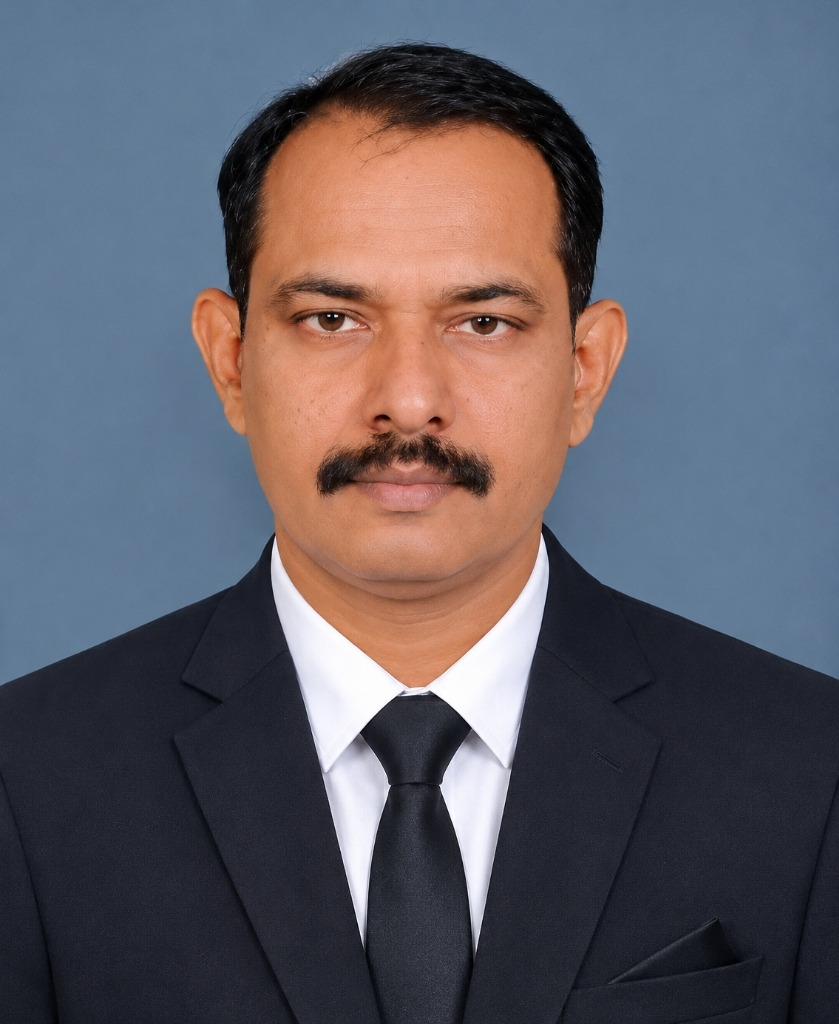
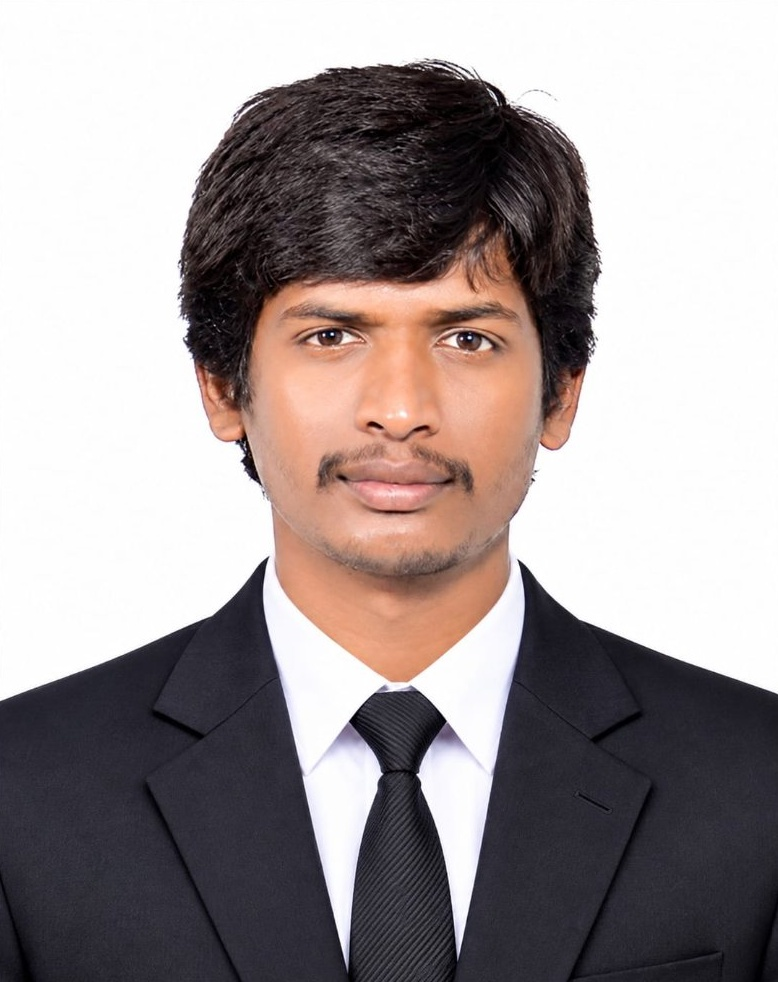
Now Editor photo uploaded and About the editor also updated

diff --git a/src/app/(public)/about/page.tsx b/src/app/(public)/about/page.tsx
@@ -125,58 +125,92 @@ export default function AboutPage() {
         </div>
       </section>
 
-      {/* Editorial Mission Statement Box */}
+      {/* Editorial Mission Statement & About Editor Box */}
       <section className="bg-white border border-[#E2E8F0] rounded-2xl p-6 sm:p-10 shadow-xs">
-        <div className="grid grid-cols-1 md:grid-cols-12 gap-8 items-center">
-          <div className="md:col-span-3 flex justify-center">
-            <div className="w-full max-w-[200px]">
-              <div className="relative aspect-[4/5] rounded-xl overflow-hidden border border-stone-200 shadow-sm">
+        <div className="grid grid-cols-1 md:grid-cols-12 gap-8 items-start">
+          {/* Editor Photo */}
+          <div className="md:col-span-4 flex justify-center">
+            <div className="w-full max-w-[260px] sticky top-24">
+              <div className="relative aspect-[4/5] rounded-2xl overflow-hidden border-2 border-[#172B4D]/15 shadow-md bg-stone-100">
                 <Image
                   src="/editor.jpg"
-                  alt="ಎಂ. ಎಸ್. ಮಧುಕುಮಾರ್ - ಪ್ರಧಾನ ಸಂಪಾದಕರು, ನ್ಯಾಯ ಘರ್ಜನೆ"
-                  width={839}
-                  height={1024}
-                  className="w-full h-full object-cover object-top"
+                  alt="ಹರೀಶ್ ಕಮ್ಮನಕೋಟೆ - ಪ್ರಧಾನ ಸಂಪಾದಕರು, ನ್ಯಾಯ ಘರ್ಜನೆ"
+                  width={778}
+                  height={982}
+                  priority
+                  className="w-full h-full object-cover object-top hover:scale-[1.02] transition-transform duration-300"
                 />
+                <div className="absolute bottom-0 inset-x-0 bg-gradient-to-t from-[#172B4D] via-[#172B4D]/85 to-transparent p-3 pt-6 text-white text-center">
+                  <p className="text-xs sm:text-sm font-bold leading-tight tracking-wide">ಹರೀಶ್ ಕಮ್ಮನಕೋಟೆ</p>
+                  <p className="text-[10px] text-[#FF8A80] font-medium">ಪ್ರಧಾನ ಸಂಪಾದಕರು • ನ್ಯಾಯ ಘರ್ಜನೆ</p>
+                </div>
               </div>
-            </div>
-          </div>
-          <div className="md:col-span-5 space-y-4">
-            <h2 className="text-2xl font-black text-[#172B4D]">
-              ಸಂಪಾದಕರ ಸಂದೇಶ & ಧ್ಯೇಯೋದ್ದೇಶ
-            </h2>
-            <p className="text-sm text-[#5A6A85] leading-relaxed">
-              &quot;ಪತ್ರಿಕೋದ್ಯಮ ಕೇವಲ ಸುದ್ದಿಗಳನ್ನು ಪ್ರಸಾರ ಮಾಡುವ ಸಾಧನವಲ್ಲ; ಅದು ಜನತಂತ್ರದ ನಾಲ್ಕನೇ ಸ್ತಂಭವಾಗಿ ಸಮಾಜದ ಹಿತ ರಕ್ಷಿಸುವ ಪವಿತ್ರ ಜವಾಬ್ದಾರಿ. ನ್ಯಾಯ ಘರ್ಜನೆ ಪತ್ರಿಕೆಯು ಪ್ರತಿ ತಿಂಗಳು ಜನರ ಮುಂದಿಡುವ ಪ್ರತಿಯೊಂದು ಪುಟವೂ ಸಮಾಜಮುಖಿ ಚಿಂತನೆಗೆ ಪ್ರೇರಣೆಯಾಗಿದೆ.&quot;
-            </p>
-            <div className="pt-2">
-              <p className="text-sm font-bold text-[#172B4D]">ಎಂ. ಎಸ್. ಮಧುಕುಮಾರ್</p>
-              <p className="text-xs text-[#C62828] font-medium">ಪ್ರಧಾನ ಸಂಪಾದಕರು, ನ್ಯಾಯ ಘರ್ಜನೆ ಮಾಸಿಕ ಇ-ಪತ್ರಿಕೆ</p>
             </div>
           </div>
 
-          {/* Quick Stats / Info Card */}
-          <div className="md:col-span-4 bg-[#F8F9FA] border border-[#E2E8F0] rounded-xl p-5 space-y-3">
-            <h3 className="text-xs font-bold text-[#172B4D] uppercase tracking-wider">
-              ಪತ್ರಿಕೆಯ ಸ್ವರೂಪ ವಿವರಗಳು
-            </h3>
-            <div className="space-y-2 text-xs text-[#5A6A85]">
-              <div className="flex justify-between py-1 border-b border-neutral-200">
-                <span>ಭಾಷೆ:</span>
-                <strong className="text-[#172B4D]">ಕನ್ನಡ (Kannada)</strong>
-              </div>
-              <div className="flex justify-between py-1 border-b border-neutral-200">
-                <span>ಆವರ್ತನ:</span>
-                <strong className="text-[#172B4D]">ಮಾಸಿಕ (Monthly)</strong>
-              </div>
-              <div className="flex justify-between py-1 border-b border-neutral-200">
-                <span>ಮಾಧ್ಯಮ:</span>
-                <strong className="text-[#172B4D]">ಡಿಜಿಟಲ್ ಇ-ಪೇಪರ್ & PDF</strong>
-              </div>
-              <div className="flex justify-between py-1">
-                <span>ಪ್ರಸರಣ ವ್ಯಾಪ್ತಿ:</span>
-                <strong className="text-[#172B4D]">ಸಮಗ್ರ ಕರ್ನಾಟಕ & ಜಾಗತಿಕ ಕನ್ನಡಿಗರು</strong>
-              </div>
+          {/* Editor Bio & Message */}
+          <div className="md:col-span-8 space-y-4">
+            <div className="inline-flex items-center gap-2 px-3 py-1 rounded-full bg-red-50 text-[#C62828] text-xs font-bold border border-red-100">
+              <Shield className="w-3.5 h-3.5" />
+              <span>ಸಂಪಾದಕರ ಕುರಿತು</span>
             </div>
+
+            <div>
+              <h2 className="text-2xl sm:text-3xl font-black text-[#172B4D] tracking-tight">
+                ಹರೀಶ್ ಕಮ್ಮನಕೋಟೆ
+              </h2>
+              <p className="text-xs sm:text-sm font-semibold text-[#C62828] mt-0.5">
+                ಪ್ರಧಾನ ಸಂಪಾದಕರು, ನ್ಯಾಯ ಘರ್ಜನೆ ಕನ್ನಡ ಮಾಸಿಕ ಇ-ಪತ್ರಿಕೆ
+              </p>
+            </div>
+
+            {/* Quote */}
+            <div className="relative bg-[#F8F9FA] border-l-4 border-[#C62828] p-4 rounded-r-lg">
+              <p className="text-sm sm:text-base text-[#172B4D] font-medium leading-relaxed font-serif">
+                &ldquo;ಪತ್ರಿಕೋದ್ಯಮವು ಕೇವಲ ಸುದ್ದಿಗಳನ್ನು ಪ್ರಕಟಿಸುವ ಮಾಧ್ಯಮವಲ್ಲ; ಅದು ಸಮಾಜದ ತಪ್ಪುಗಳನ್ನು ಪ್ರಶ್ನಿಸುವ, ಜನರ ಹಕ್ಕುಗಳನ್ನು ಪ್ರತಿಪಾದಿಸುವ ಮತ್ತು ಪ್ರಜಾಪ್ರಭುತ್ವದ ಮೌಲ್ಯಗಳನ್ನು ಎತ್ತಿಹಿಡಿಯುವ ಶಕ್ತಿಯುತ ವೇದಿಕೆ ಎಂಬ ನಂಬಿಕೆಯನ್ನು ಹೊಂದಿದ್ದಾರೆ.&rdquo;
+              </p>
+            </div>
+
+            {/* Paragraphs */}
+            <div className="space-y-3 text-sm text-[#5A6A85] leading-relaxed">
+              <p>
+                ಹರೀಶ್ ಕಮ್ಮನಕೋಟೆ ಅವರು ಪತ್ರಿಕೋದ್ಯಮದ ಮೂಲಕ ಸಮಾಜದಲ್ಲಿ ಜಾಗೃತಿ ಮೂಡಿಸುವ ಹಾಗೂ ಜನಸಾಮಾನ್ಯರ ಧ್ವನಿಯಾಗಿ ಕಾರ್ಯನಿರ್ವಹಿಸುವ ಆಶಯ ಹೊಂದಿರುವ ಯುವ ಪತ್ರಕರ್ತರು.
+              </p>
+              <p>
+                ಸತ್ಯ, ನ್ಯಾಯ ಮತ್ತು ಜನಪರ ಕಾಳಜಿಯನ್ನು ಪತ್ರಿಕೋದ್ಯಮದ ಮೂಲ ಆಶಯಗಳನ್ನಾಗಿ ಪರಿಗಣಿಸಿರುವ ಇವರು, ಆಡಳಿತ ವ್ಯವಸ್ಥೆಯ ಜವಾಬ್ದಾರಿತನ, ಸಾರ್ವಜನಿಕ ಸಮಸ್ಯೆಗಳು, ಸಾಮಾಜಿಕ ಅನ್ಯಾಯ, ಭ್ರಷ್ಟಾಚಾರ ಹಾಗೂ ಜನಹಿತದ ವಿಚಾರಗಳಿಗೆ ಆದ್ಯತೆ ನೀಡುತ್ತಾರೆ.
+              </p>
+              <p>
+                ನಿಷ್ಪಕ್ಷಪಾತ ವರದಿಗಾರಿಕೆ, ವಾಸ್ತವಾಂಶ ಆಧಾರಿತ ಸುದ್ದಿಗಳು ಹಾಗೂ ಜನಪರ ಧೋರಣೆಯೊಂದಿಗೆ ಪತ್ರಿಕೋದ್ಯಮದಲ್ಲಿ ತಮ್ಮದೇ ಆದ ಗುರುತು ಮೂಡಿಸುವುದು ಇವರ ಆಶಯವಾಗಿದೆ.
+              </p>
+              <p className="font-medium text-[#172B4D]">
+                ನ್ಯಾಯ ಘರ್ಜನೆ ಪತ್ರಿಕೆಯ ಮೂಲಕ ಸತ್ಯಕ್ಕೆ ಧ್ವನಿಯಾಗಿ, ನ್ಯಾಯಕ್ಕೆ ಬೆಂಬಲವಾಗಿ ಮತ್ತು ಜನಸಾಮಾನ್ಯರ ಆಶೋತ್ತರಗಳಿಗೆ ವೇದಿಕೆಯಾಗುವ ಸಂಕಲ್ಪವನ್ನು ಹೊಂದಿದ್ದಾರೆ.
+              </p>
+            </div>
+          </div>
+        </div>
+      </section>
+
+      {/* Quick Stats / Info Card */}
+      <section className="bg-white border border-[#E2E8F0] rounded-2xl p-6 sm:p-8 shadow-xs">
+        <h3 className="text-xs font-bold text-[#172B4D] uppercase tracking-wider mb-4 border-b border-[#E2E8F0] pb-2">
+          ಪತ್ರಿಕೆಯ ಸ್ವರೂಪ ವಿವರಗಳು
+        </h3>
+        <div className="grid grid-cols-1 sm:grid-cols-2 lg:grid-cols-4 gap-4 text-xs text-[#5A6A85]">
+          <div className="bg-[#F8F9FA] p-3 rounded-lg border border-neutral-200">
+            <span className="block text-stone-500 text-[11px]">ಭಾಷೆ</span>
+            <strong className="text-[#172B4D] text-sm">ಕನ್ನಡ (Kannada)</strong>
+          </div>
+          <div className="bg-[#F8F9FA] p-3 rounded-lg border border-neutral-200">
+            <span className="block text-stone-500 text-[11px]">ಆವರ್ತನ</span>
+            <strong className="text-[#172B4D] text-sm">ಮಾಸಿಕ (Monthly)</strong>
+          </div>
+          <div className="bg-[#F8F9FA] p-3 rounded-lg border border-neutral-200">
+            <span className="block text-stone-500 text-[11px]">ಮಾಧ್ಯಮ</span>
+            <strong className="text-[#172B4D] text-sm">ಡಿಜಿಟಲ್ ಇ-ಪೇಪರ್ & PDF</strong>
+          </div>
+          <div className="bg-[#F8F9FA] p-3 rounded-lg border border-neutral-200">
+            <span className="block text-stone-500 text-[11px]">ಪ್ರಸರಣ ವ್ಯಾಪ್ತಿ</span>
+            <strong className="text-[#172B4D] text-sm">ಸಮಗ್ರ ಕರ್ನಾಟಕ & ಜಾಗತಿಕ ಕನ್ನಡಿಗರು</strong>
           </div>
         </div>
       </section>

diff --git a/src/app/(public)/page.tsx b/src/app/(public)/page.tsx
@@ -147,8 +147,8 @@ export default function HomePage() {
               <div className="w-full max-w-[260px] sm:max-w-[280px]">
                 <EditorPhoto
                   src="/editor.jpg"
-                  alt="ಎಂ. ಎಸ್. ಮಧುಕುಮಾರ್ - ಪ್ರಧಾನ ಸಂಪಾದಕರು, ನ್ಯಾಯ ಘರ್ಜನೆ"
-                  editorName="ಎಂ. ಎಸ್. ಮಧುಕುಮಾರ್"
+                  alt="ಹರೀಶ್ ಕಮ್ಮನಕೋಟೆ - ಪ್ರಧಾನ ಸಂಪಾದಕರು, ನ್ಯಾಯ ಘರ್ಜನೆ"
+                  editorName="ಹರೀಶ್ ಕಮ್ಮನಕೋಟೆ"
                 />
               </div>
             </div>
@@ -157,12 +157,12 @@ export default function HomePage() {
             <div className="md:col-span-7 space-y-4">
               <div className="inline-flex items-center gap-2 px-3 py-1 rounded-full bg-red-50 text-[#C62828] text-xs font-bold border border-red-100">
                 <Newspaper className="w-3.5 h-3.5" />
-                <span>ಸಂಪಾದಕರ ಪರಿಚಯ</span>
+                <span>ಸಂಪಾದಕರ ಕುರಿತು</span>
               </div>
 
               <div>
                 <h2 className="text-2xl sm:text-3xl font-black text-[#172B4D] tracking-tight">
-                  ಎಂ. ಎಸ್. ಮಧುಕುಮಾರ್
+                  ಹರೀಶ್ ಕಮ್ಮನಕೋಟೆ
                 </h2>
                 <p className="text-xs sm:text-sm font-semibold text-[#C62828] mt-0.5">
                   ಪ್ರಧಾನ ಸಂಪಾದಕರು, ನ್ಯಾಯ ಘರ್ಜನೆ ಕನ್ನಡ ಮಾಸಿಕ ಇ-ಪತ್ರಿಕೆ
@@ -173,13 +173,21 @@ export default function HomePage() {
               <div className="relative bg-[#F8F9FA] border-l-4 border-[#C62828] p-4 rounded-r-lg space-y-2">
                 <Quote className="w-6 h-6 text-[#C62828]/30 absolute top-2 right-2" />
                 <p className="text-sm sm:text-base text-[#172B4D] font-medium leading-relaxed font-serif">
-                  &ldquo;ಪತ್ರಿಕೋದ್ಯಮವೆಂದರೆ ಕೇವಲ ಸುದ್ದಿಗಳನ್ನು ಪ್ರಕಟಿಸುವುದಲ್ಲ; ಅದು ಸಮಾಜದ ಕಟ್ಟಕಡೆಯ ವ್ಯಕ್ತಿಯ ಧ್ವನಿಯಾಗಿ, ಅನ್ಯಾಯದ ವಿರುದ್ಧ ಹೋರಾಡುವ ಮತ್ತು ಸಾರ್ವಜನಿಕ ಹಿತ ರಕ್ಷಿಸುವ ಪವಿತ್ರ ಜವಾಬ್ದಾರಿ.&rdquo;
+                  &ldquo;ಪತ್ರಿಕೋದ್ಯಮವು ಕೇವಲ ಸುದ್ದಿಗಳನ್ನು ಪ್ರಕಟಿಸುವ ಮಾಧ್ಯಮವಲ್ಲ; ಅದು ಸಮಾಜದ ತಪ್ಪುಗಳನ್ನು ಪ್ರಶ್ನಿಸುವ, ಜನರ ಹಕ್ಕುಗಳನ್ನು ಪ್ರತಿಪಾದಿಸುವ ಮತ್ತು ಪ್ರಜಾಪ್ರಭುತ್ವದ ಮೌಲ್ಯಗಳನ್ನು ಎತ್ತಿಹಿಡಿಯುವ ಶಕ್ತಿಯುತ ವೇದಿಕೆ.&rdquo;
                 </p>
               </div>
 
-              <p className="text-xs sm:text-sm text-[#5A6A85] leading-relaxed">
-                ನ್ಯಾಯ ಘರ್ಜನೆ ಪತ್ರಿಕೆಯು ಯಾವುದೇ ರಾಜಕೀಯ ಅಥವಾ ವಾಣಿಜ್ಯ ಹಿತಾಸಕ್ತಿಗಳಿಗೆ ಮಣಿಯದೆ, ಸಾರ್ವಜನಿಕರ ಪರವಾಗಿ ಮತ್ತು ನ್ಯಾಯದ ಪರವಾಗಿ ನಿಲ್ಲುವ ಬದ್ಧತೆಯೊಂದಿಗೆ ಮುನ್ನಡೆಯುತ್ತಿದೆ. ರಾಜ್ಯದ ಪ್ರಮುಖ ವಿದ್ಯಮಾನಗಳು, ಜನಪರ ಹೋರಾಟಗಳು ಮತ್ತು ಉಪಯುಕ್ತ ಮಾಹಿತಿಯನ್ನು ಪ್ರತಿ ತಿಂಗಳು ನಮ್ಮ ಓದುಗರಿಗೆ ತಲುಪಿಸಲು ನಾವು ಸದಾ ಬದ್ಧರಾಗಿದ್ದೇವೆ.
-              </p>
+              <div className="space-y-2.5 text-xs sm:text-sm text-[#5A6A85] leading-relaxed">
+                <p>
+                  ಹರೀಶ್ ಕಮ್ಮನಕೋಟೆ ಅವರು ಪತ್ರಿಕೋದ್ಯಮದ ಮೂಲಕ ಸಮಾಜದಲ್ಲಿ ಜಾಗೃತಿ ಮೂಡಿಸುವ ಹಾಗೂ ಜನಸಾಮಾನ್ಯರ ಧ್ವನಿಯಾಗಿ ಕಾರ್ಯನಿರ್ವಹಿಸುವ ಆಶಯ ಹೊಂದಿರುವ ಯುವ ಪತ್ರಕರ್ತರು.
+                </p>
+                <p>
+                  ಸತ್ಯ, ನ್ಯಾಯ ಮತ್ತು ಜನಪರ ಕಾಳಜಿಯನ್ನು ಪತ್ರಿಕೋದ್ಯಮದ ಮೂಲ ಆಶಯಗಳನ್ನಾಗಿ ಪರಿಗಣಿಸಿರುವ ಇವರು, ಆಡಳಿತ ವ್ಯವಸ್ಥೆಯ ಜವಾಬ್ದಾರಿತನ, ಸಾರ್ವಜನಿಕ ಸಮಸ್ಯೆಗಳು, ಸಾಮಾಜಿಕ ಅನ್ಯಾಯ, ಭ್ರಷ್ಟಾಚಾರ ಹಾಗೂ ಜನಹಿತದ ವಿಚಾರಗಳಿಗೆ ಆದ್ಯತೆ ನೀಡುತ್ತಾರೆ.
+                </p>
+                <p>
+                  ನ್ಯಾಯ ಘರ್ಜನೆ ಪತ್ರಿಕೆಯ ಮೂಲಕ ಸತ್ಯಕ್ಕೆ ಧ್ವನಿಯಾಗಿ, ನ್ಯಾಯಕ್ಕೆ ಬೆಂಬಲವಾಗಿ ಮತ್ತು ಜನಸಾಮಾನ್ಯರ ಆಶೋತ್ತರಗಳಿಗೆ ವೇದಿಕೆಯಾಗುವ ಸಂಕಲ್ಪದೊಂದಿಗೆ ಮುನ್ನಡೆಯುತ್ತಿದ್ದಾರೆ.
+                </p>
+              </div>
 
               {/* Editorial Values Pills */}
               <div className="grid grid-cols-1 sm:grid-cols-3 gap-2 pt-2 text-xs">

diff --git a/src/components/public/EditorPhoto.tsx b/src/components/public/EditorPhoto.tsx
@@ -12,8 +12,8 @@ interface EditorPhotoProps {
 
 export default function EditorPhoto({
   src = "/editor.jpg",
-  alt = "ಎಂ. ಎಸ್. ಮಧುಕುಮಾರ್ - ಪ್ರಧಾನ ಸಂಪಾದಕರು, ನ್ಯಾಯ ಘರ್ಜನೆ",
-  editorName = "ಎಂ. ಎಸ್. ಮಧುಕುಮಾರ್",
+  alt = "ಹರೀಶ್ ಕಮ್ಮನಕೋಟೆ - ಪ್ರಧಾನ ಸಂಪಾದಕರು, ನ್ಯಾಯ ಘರ್ಜನೆ",
+  editorName = "ಹರೀಶ್ ಕಮ್ಮನಕೋಟೆ",
   className = "",
 }: EditorPhotoProps) {
   const [imgError, setImgError] = useState(false);
